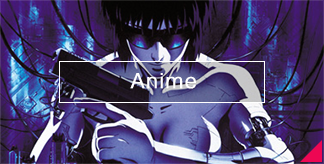
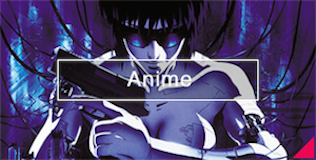
make area design

diff --git a/app/assets/stylesheets/home.scss b/app/assets/stylesheets/home.scss
@@ -31,7 +31,7 @@
   padding: 15px 0px;
 }
 
-a.white {
+a.button.white {
   color: #ffffff;
   &:hover {
     text-decoration: none;
@@ -67,9 +67,10 @@ a.white {
 .section-image {
   padding: 2px;
   border: 1px solid #db4c3a;
+  margin: 2px;
 }
 
-a:hover {
+a.link-transparent:hover {
   text-decoration: none;
   background-color: transparent;
 }
